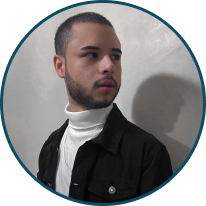
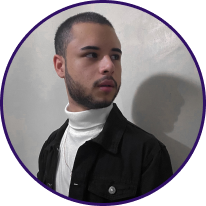
db

Changed region(s): [[0.2621, 0.1456, 1.0, 1.0], [0.0, 0.0, 0.8447, 0.8447], [0.1456, 0.8447, 0.2621, 0.932]]

diff --git a/style.css b/style.css
@@ -1,8 +1,8 @@
 @import url('https://fonts.googleapis.com/css2?family=Inter:wght@100;200;300;400;500;600;700;800;900&display=swap');
 
 :root{
-    --azul-claro:   #1B8DBE;
-    --azul-escuro:  #104b64;
+    --roxo-claro:   #8C49FA;
+    --roxo-escuro:  #301064;
     --cinza: #ACACAC;
     --deep-gray: #121214;
     --white:    #d9d9d9;
@@ -42,7 +42,7 @@ body{
     height: 410px;
 }
 .inicio{
-    background-color: var(--azul-claro);
+    background-color: var(--roxo-claro);
     width: 100%;
     height: 400px;
     border-radius: 25px;
@@ -77,7 +77,7 @@ body{
     align-self: center;
 }
 .contato a{
-    color: var(--azul-escuro);
+    color: var(--roxo-escuro);
     transition: transform 0.3s ease;
 }
 .contato a :hover{
